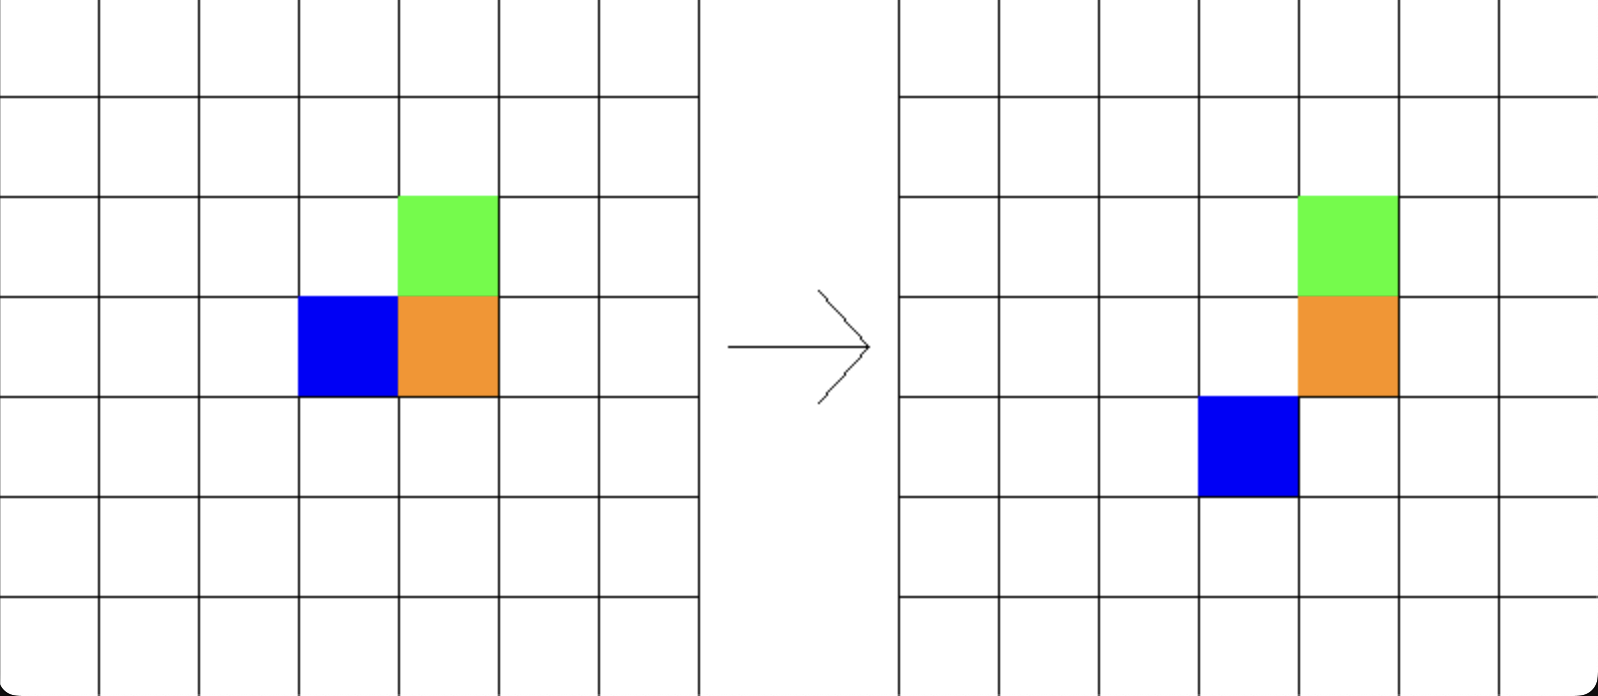
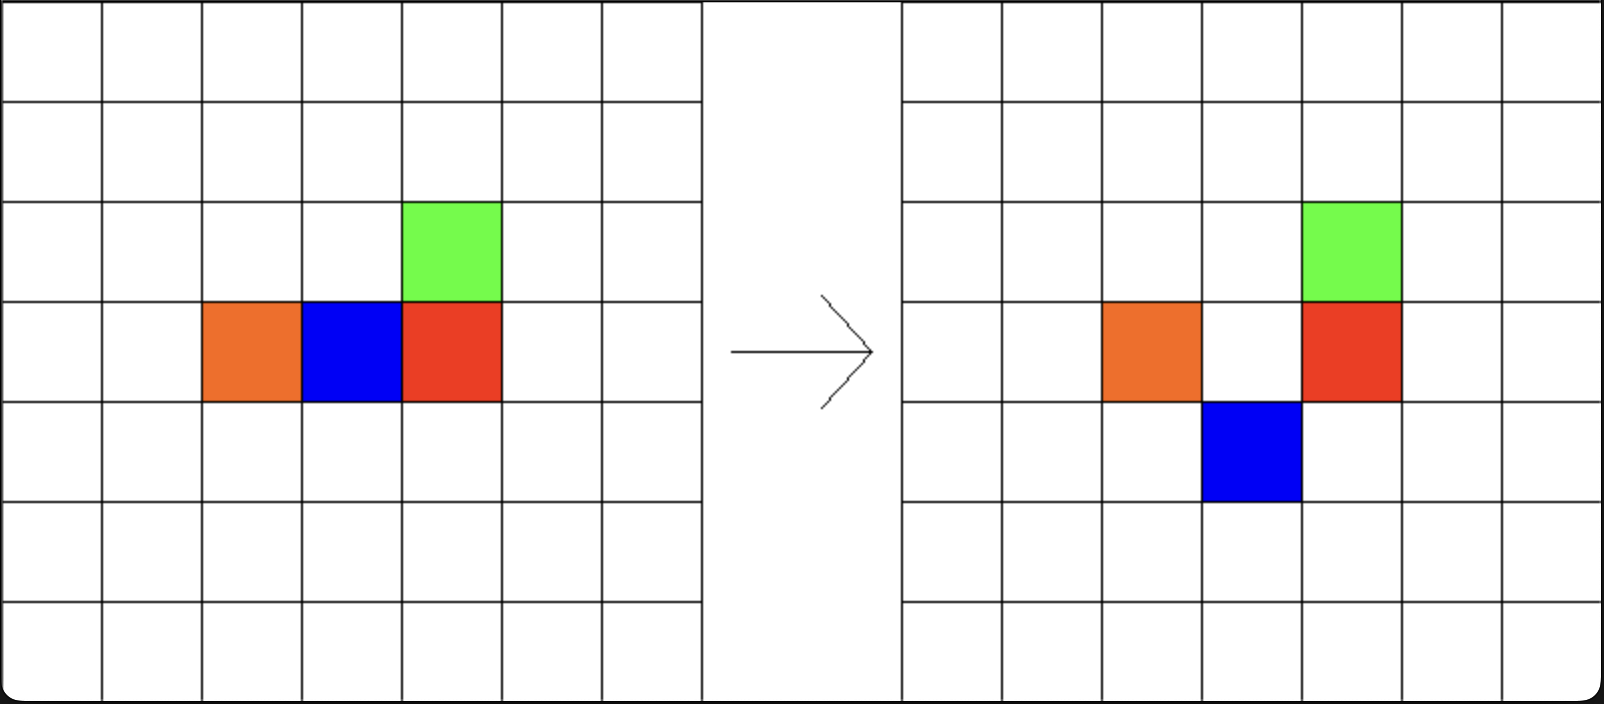
playground: draw grid on top of matrix

Changed region(s): [[0.0, 0.0, 1.0, 1.0], [0.4599, 0.4526, 0.5519, 0.5129]]

diff --git a/TASEP-Smarticles/src/SmartTasep/Playground.py b/TASEP-Smarticles/src/SmartTasep/Playground.py
@@ -57,6 +57,7 @@ class Playground:
         self.draw_matrix(self.state.T)
         self.calc_next_state(0)
         self.draw_matrix(self.next_state.T, right=True)
+        self.draw_grid()
         pygame.display.flip()
 
         # pygame main loop
@@ -118,6 +119,7 @@ class Playground:
                     self.calc_next_state(action)
                     # redraw the right matrix
                     self.draw_matrix(self.next_state.T, right=True)
+                    self.draw_grid()
                     # print(f"Current state:\n{self.state}")
                     pygame.display.flip()
 
@@ -162,7 +164,6 @@ class Playground:
 
     def draw_background_and_arrow(self):
         self.screen.fill((255, 255, 255))
-        self.draw_grid()
         # draw arrow between matrices
         pygame.draw.line(self.screen, (0, 0, 0), (self.length * 50 + 15, self.length * 25),
                          (self.length * 50 + 85, self.length * 25))
@@ -176,3 +177,22 @@ class Playground:
     def select_action(self, state: torch.Tensor) -> torch.Tensor:
         with torch.no_grad():
             return self.policy_net(state).max(1)[1].view(1, 1)
+
+
+
+
+
+
+
+
+
+
+
+
+
+
+
+
+
+
+
